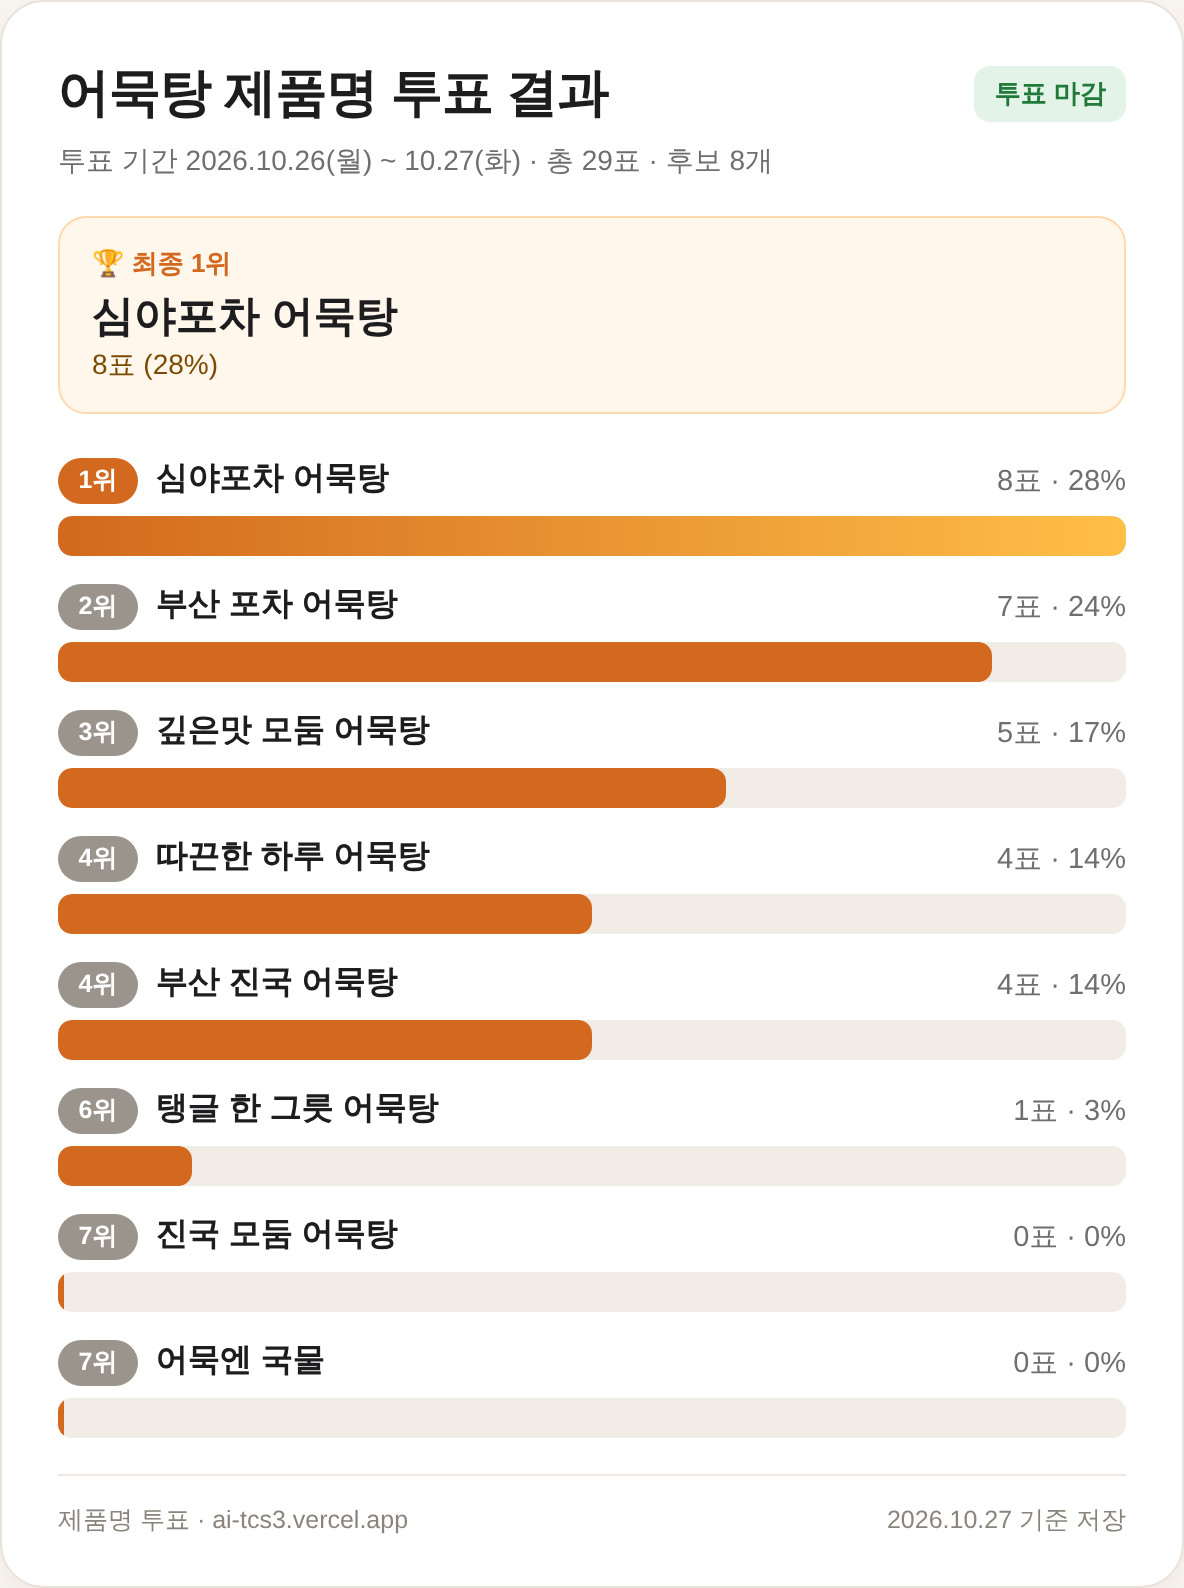
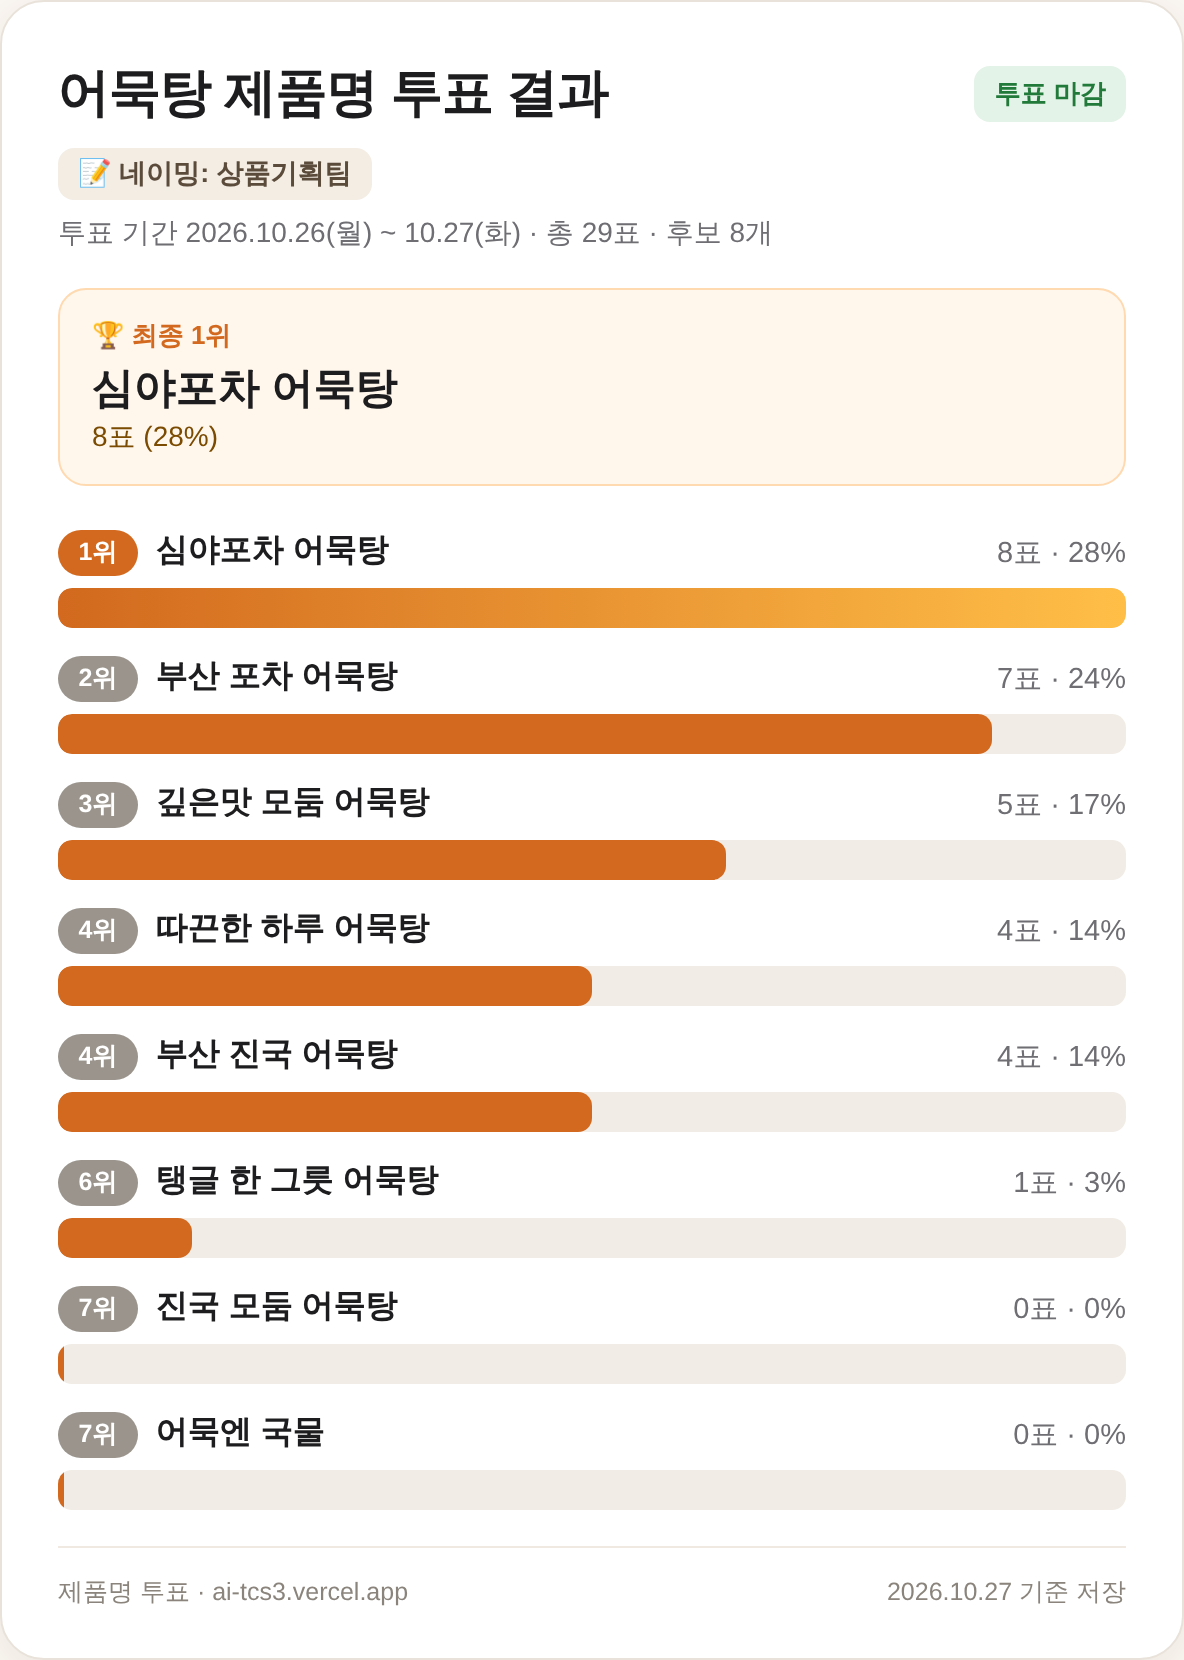
Credit 상품기획팀 for naming on archived results
Add a "네이밍: 상품기획팀" tag to the 어묵탕, 산적구이 1차 and 재투표
result cards and re-render their images with the same line.

Claude-Session: https://claude.ai/code/session_015L6ewpuW6X5joYiUbiH3Du

diff --git a/results/index.html b/results/index.html
@@ -51,6 +51,7 @@
   .ih { display: flex; align-items: center; justify-content: space-between; gap: 8px; margin-bottom: 4px; }
   .ih b { font-size: 18px; letter-spacing: -0.3px; }
   .badge { font-size: 12px; font-weight: 800; background: #e3f3e7; color: #227a3a; border-radius: 7px; padding: 3px 8px; white-space: nowrap; }
+  .src { display: inline-block; font-size: 12.5px; font-weight: 700; color: #5b4b3b; background: #f3ede4; border-radius: 7px; padding: 3px 9px; margin: 2px 0 6px; }
   .meta { font-size: 13px; color: var(--ink-muted); margin-bottom: 12px; }
   .win { background: #fffaf2; border-radius: 12px; padding: 10px 12px; font-size: 14px; line-height: 1.5; }
   .win .t { color: var(--primary); font-weight: 800; }
@@ -99,7 +100,8 @@
       badge: '투표 중단',
       note: '→ 후보가 바뀌어 중단, 새 후보로 다시 투표',
       candidates: ['실속 산적구이', '산도적도 반할 산적구이'],
-      image: '/results/sanjeok-2.png',
+      source: '상품기획팀',
+      image: '/results/sanjeok-2.png?v=2',
       file: '산적구이_재투표_중단_결과.png',
     },
     {
@@ -111,7 +113,8 @@
       note: '→ 동점으로 두 후보 재투표 진행',
       candidates: ['실속 산적구이', '맛있는 산적구이', '불고기맛 산적구이', '더 큰 산적구이',
                    '알찬 산적구이', '산도적도 반할 산적구이'],
-      image: '/results/sanjeok-1.png',
+      source: '상품기획팀',
+      image: '/results/sanjeok-1.png?v=2',
       file: '산적구이_1차_제품명_투표결과.png',
     },
     {
@@ -122,7 +125,8 @@
       winnerVotes: 8,
       candidates: ['깊은맛 모둠 어묵탕', '진국 모둠 어묵탕', '따끈한 하루 어묵탕', '어묵엔 국물',
                    '탱글 한 그릇 어묵탕', '심야포차 어묵탕', '부산 진국 어묵탕', '부산 포차 어묵탕'],
-      image: '/results/eomuk.png',
+      source: '상품기획팀',
+      image: '/results/eomuk.png?v=2',
       file: '어묵탕_제품명_투표결과.png',
     },
   ];
@@ -164,6 +168,7 @@
       const matched = q ? a.candidates.filter(c => c.toLowerCase().includes(q.toLowerCase()) && !a.winners.includes(c)) : [];
       return '<div class="item">' +
         '<div class="ih"><b>' + hl(a.title, q) + '</b><span class="badge">' + escapeHtml(a.badge || '투표 마감') + '</span></div>' +
+        (a.source ? '<div class="src">📝 네이밍: ' + escapeHtml(a.source) + '</div>' : '') +
         '<div class="meta">' + escapeHtml(a.period) + ' · 총 ' + a.total + '표</div>' +
         '<div class="win"><span class="t">🏆 ' + (a.winLabel || (a.winners.length > 1 ? '공동 1위' : '1위')) + ' (' + (a.winners.length > 1 ? '각 ' : '') + a.winnerVotes + '표)</span><br>' +
           a.winners.map(w => hl(w, q)).join(' · ') +
